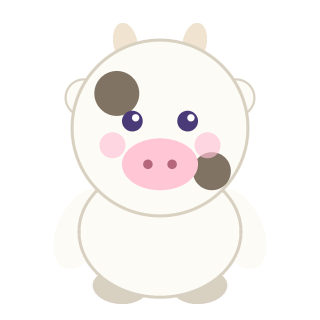
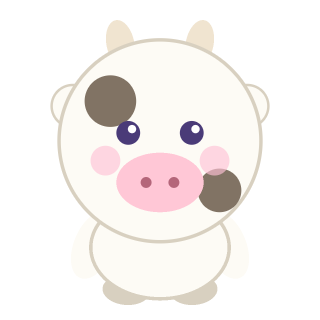
Restore original head proportions, shrink the added bodies
Feedback: the body-added redesign (mascots + 9-animal cast) looked
too deformed now - wanted the original character feel back, just with
a body added rather than an equally-prominent chibi torso.

Increased head size/position back close to the original portrait
proportions (r 0.27->0.31, cy 0.4->0.44 of canvas size) and shrank
drawStandingBody()'s torso/arm/leg multipliers so the body reads as a
small, subordinate addition peeking out below a still-dominant head,
instead of a big rounded chibi body competing with it for attention.
Applied identically to both generators (tools/generate-characters.js
for kuma/neko/usagi, tools/generate-animals.js for the 9-animal cast)
so every character in the app keeps sharing one proportion language.

Regenerated all 12 PNGs. Bumped sw.js CACHE_VERSION to v27.

diff --git a/tools/generate-animals.js b/tools/generate-animals.js
@@ -37,20 +37,21 @@ function drawBlush(cv, cx, cy, r, color = '#FFB0C8') {
   fillCircle(cv, cx + r * 0.55, cy + r * 0.2, r * 0.15, color, 0.65);
 }
 
-// Small standing "chibi" body - same silhouette used for the mascot cast
-// (tools/generate-characters.js) so every character in the app shares one
-// consistent proportion language: big head, compact torso/arms/feet.
+// A small standing body - same silhouette used for the mascot cast
+// (tools/generate-characters.js), kept subordinate to the head rather than
+// an equally-prominent "chibi" torso, per feedback that the earlier bigger
+// body read as too deformed/toy-like against the original character look.
 function drawStandingBody(cv, cx, headCy, headR, bodyColor, outlineColor, footColor) {
-  const neckY = headCy + headR * 0.72;
-  const bodyRx = headR * 0.92;
-  const bodyRy = headR * 0.74;
-  const bodyCy = neckY + bodyRy * 0.65;
+  const neckY = headCy + headR * 0.8;
+  const bodyRx = headR * 0.68;
+  const bodyRy = headR * 0.5;
+  const bodyCy = neckY + bodyRy * 0.55;
 
-  fillEllipse(cv, cx - bodyRx * 0.5, bodyCy + bodyRy * 0.86, headR * 0.32, headR * 0.2, 0.08, footColor);
-  fillEllipse(cv, cx + bodyRx * 0.5, bodyCy + bodyRy * 0.86, headR * 0.32, headR * 0.2, -0.08, footColor);
+  fillEllipse(cv, cx - bodyRx * 0.5, bodyCy + bodyRy * 0.86, headR * 0.24, headR * 0.15, 0.08, footColor);
+  fillEllipse(cv, cx + bodyRx * 0.5, bodyCy + bodyRy * 0.86, headR * 0.24, headR * 0.15, -0.08, footColor);
 
-  fillEllipse(cv, cx - bodyRx * 0.98, bodyCy - bodyRy * 0.05, headR * 0.28, headR * 0.5, 0.45, bodyColor);
-  fillEllipse(cv, cx + bodyRx * 0.98, bodyCy - bodyRy * 0.05, headR * 0.28, headR * 0.5, -0.45, bodyColor);
+  fillEllipse(cv, cx - bodyRx * 0.98, bodyCy - bodyRy * 0.05, headR * 0.2, headR * 0.36, 0.4, bodyColor);
+  fillEllipse(cv, cx + bodyRx * 0.98, bodyCy - bodyRy * 0.05, headR * 0.2, headR * 0.36, -0.4, bodyColor);
 
   fillEllipse(cv, cx, bodyCy, bodyRx + headR * 0.035, bodyRy + headR * 0.035, 0, outlineColor);
   fillEllipse(cv, cx, bodyCy, bodyRx, bodyRy, 0, bodyColor);
@@ -60,7 +61,7 @@ function drawStandingBody(cv, cx, headCy, headR, bodyColor, outlineColor, footCo
 
 function drawDog(size) {
   const cv = makeCanvas(size, size);
-  const cx = size * 0.5, cy = size * 0.4, r = size * 0.27;
+  const cx = size * 0.5, cy = size * 0.44, r = size * 0.31;
   const fur = '#E8B372', outline = '#C9925A', earColor = '#C9925A', snoutColor = '#FBEBD8';
 
   drawStandingBody(cv, cx, cy, r, fur, outline, outline);
@@ -81,7 +82,7 @@ function drawDog(size) {
 
 function drawCat(size) {
   const cv = makeCanvas(size, size);
-  const cx = size * 0.5, cy = size * 0.4, r = size * 0.27;
+  const cx = size * 0.5, cy = size * 0.44, r = size * 0.31;
   const fur = '#FFEFD9', outline = '#E9C9A0', patch = '#F4A94F';
 
   drawStandingBody(cv, cx, cy, r, fur, outline, outline);
@@ -113,7 +114,7 @@ function drawCat(size) {
 
 function drawCow(size) {
   const cv = makeCanvas(size, size);
-  const cx = size * 0.5, cy = size * 0.4, r = size * 0.27;
+  const cx = size * 0.5, cy = size * 0.44, r = size * 0.31;
   const fur = '#FDFBF5', outline = '#D8D0C0', patch = '#6B5B4A', snoutColor = '#FFC7D6', hornColor = '#F0E4D0';
 
   drawStandingBody(cv, cx, cy, r, fur, outline, outline);
@@ -138,7 +139,7 @@ function drawCow(size) {
 
 function drawFrog(size) {
   const cv = makeCanvas(size, size);
-  const cx = size * 0.5, cy = size * 0.42, r = size * 0.27;
+  const cx = size * 0.5, cy = size * 0.46, r = size * 0.31;
   const skin = '#8BC34A', outline = '#5E8F2E', belly = '#DFF3BC';
 
   drawStandingBody(cv, cx, cy, r, skin, outline, outline);
@@ -160,7 +161,7 @@ function drawFrog(size) {
 
 function drawPig(size) {
   const cv = makeCanvas(size, size);
-  const cx = size * 0.5, cy = size * 0.4, r = size * 0.27;
+  const cx = size * 0.5, cy = size * 0.44, r = size * 0.31;
   const fur = '#FFB3C6', outline = '#E8899E', snoutColor = '#FF8FA8';
 
   drawStandingBody(cv, cx, cy, r, fur, outline, outline);
@@ -182,7 +183,7 @@ function drawPig(size) {
 
 function drawChicken(size) {
   const cv = makeCanvas(size, size);
-  const cx = size * 0.5, cy = size * 0.4, r = size * 0.27;
+  const cx = size * 0.5, cy = size * 0.44, r = size * 0.31;
   const feather = '#FFF6E6', outline = '#E8DCC0', comb = '#FF6B5B', beak = '#F4A94F';
 
   drawStandingBody(cv, cx, cy, r, feather, outline, beak);
@@ -199,7 +200,7 @@ function drawChicken(size) {
 
 function drawLion(size) {
   const cv = makeCanvas(size, size);
-  const cx = size * 0.5, cy = size * 0.4, r = size * 0.27;
+  const cx = size * 0.5, cy = size * 0.44, r = size * 0.31;
   const fur = '#F2B84B', outline = '#D89A2E', mane = '#E08A2E', snoutColor = '#FBEBD8';
 
   drawStandingBody(cv, cx, cy, r, fur, outline, outline);
@@ -224,7 +225,7 @@ function drawLion(size) {
 
 function drawElephant(size) {
   const cv = makeCanvas(size, size);
-  const cx = size * 0.5, cy = size * 0.4, r = size * 0.27;
+  const cx = size * 0.5, cy = size * 0.44, r = size * 0.31;
   const fur = '#C3CAD3', outline = '#9AA5B0';
 
   drawStandingBody(cv, cx, cy, r, fur, outline, outline);
@@ -251,7 +252,7 @@ function drawElephant(size) {
 
 function drawSheep(size) {
   const cv = makeCanvas(size, size);
-  const cx = size * 0.5, cy = size * 0.4, r = size * 0.27;
+  const cx = size * 0.5, cy = size * 0.44, r = size * 0.31;
   const wool = '#FDFBF5', woolOutline = '#E4DED0', face = '#8D7B6B', faceOutline = '#6E5E50';
 
   drawStandingBody(cv, cx, cy, r, wool, woolOutline, faceOutline);

diff --git a/tools/generate-characters.js b/tools/generate-characters.js
@@ -22,22 +22,24 @@ function fillCircleOutlined(cv, cx, cy, r, fillColor, outlineColor, outlineWidth
   fillCircle(cv, cx, cy, r, fillColor);
 }
 
-// Small standing "chibi" body (big head, compact torso/arms/legs) drawn
-// beneath the head so every mascot reads consistently as a full character
-// instead of some being face-only portraits and others (like the pet-friends
-// animals) having bodies. Drawn before the head/ears/face so the head
-// naturally overlaps and hides the neck seam.
+// A small standing body drawn beneath the head so every mascot reads as a
+// full character instead of some being face-only portraits and others
+// (like the pet-friends animals) having bodies. Kept subordinate to the
+// head - close to the original head-only proportions - rather than a big
+// "chibi" torso, per feedback that an equally-prominent body read as too
+// deformed/toy-like. Drawn before the head/ears/face so the head naturally
+// overlaps and hides the neck seam.
 function drawStandingBody(cv, cx, headCy, headR, bodyColor, outlineColor, footColor) {
-  const neckY = headCy + headR * 0.72;
-  const bodyRx = headR * 0.92;
-  const bodyRy = headR * 0.74;
-  const bodyCy = neckY + bodyRy * 0.65;
+  const neckY = headCy + headR * 0.8;
+  const bodyRx = headR * 0.68;
+  const bodyRy = headR * 0.5;
+  const bodyCy = neckY + bodyRy * 0.55;
 
-  fillEllipse(cv, cx - bodyRx * 0.5, bodyCy + bodyRy * 0.86, headR * 0.32, headR * 0.2, 0.08, footColor);
-  fillEllipse(cv, cx + bodyRx * 0.5, bodyCy + bodyRy * 0.86, headR * 0.32, headR * 0.2, -0.08, footColor);
+  fillEllipse(cv, cx - bodyRx * 0.5, bodyCy + bodyRy * 0.86, headR * 0.24, headR * 0.15, 0.08, footColor);
+  fillEllipse(cv, cx + bodyRx * 0.5, bodyCy + bodyRy * 0.86, headR * 0.24, headR * 0.15, -0.08, footColor);
 
-  fillEllipse(cv, cx - bodyRx * 0.98, bodyCy - bodyRy * 0.05, headR * 0.28, headR * 0.5, 0.45, bodyColor);
-  fillEllipse(cv, cx + bodyRx * 0.98, bodyCy - bodyRy * 0.05, headR * 0.28, headR * 0.5, -0.45, bodyColor);
+  fillEllipse(cv, cx - bodyRx * 0.98, bodyCy - bodyRy * 0.05, headR * 0.2, headR * 0.36, 0.4, bodyColor);
+  fillEllipse(cv, cx + bodyRx * 0.98, bodyCy - bodyRy * 0.05, headR * 0.2, headR * 0.36, -0.4, bodyColor);
 
   fillEllipse(cv, cx, bodyCy, bodyRx + headR * 0.035, bodyRy + headR * 0.035, 0, outlineColor);
   fillEllipse(cv, cx, bodyCy, bodyRx, bodyRy, 0, bodyColor);
@@ -59,7 +61,7 @@ function drawFace(cv, cx, cy, r, { blush = '#FFB0C8', mouth = '#FF6FA5' } = {}) 
 
 function drawBear(size) {
   const cv = makeCanvas(size, size);
-  const cx = size * 0.5, cy = size * 0.4, r = size * 0.27;
+  const cx = size * 0.5, cy = size * 0.44, r = size * 0.31;
   const fur = '#E3A76F';
   const furDark = '#C98B57';
   const outline = '#B87A45';
@@ -86,7 +88,7 @@ function drawBear(size) {
 
 function drawCat(size) {
   const cv = makeCanvas(size, size);
-  const cx = size * 0.5, cy = size * 0.4, r = size * 0.27;
+  const cx = size * 0.5, cy = size * 0.44, r = size * 0.31;
   const fur = '#FFEFD9';
   const outline = '#E9C9A0';
   const patch = '#F4A94F';
@@ -135,7 +137,7 @@ function drawCat(size) {
 
 function drawRabbit(size) {
   const cv = makeCanvas(size, size);
-  const cx = size * 0.5, cy = size * 0.4, r = size * 0.27;
+  const cx = size * 0.5, cy = size * 0.44, r = size * 0.31;
   const fur = '#FFF8FA';
   const outline = '#F3C9D8';
   const inner = '#FFC2D6';

diff --git a/sw.js b/sw.js
@@ -2,7 +2,7 @@
 // (the whole point: this app is meant to be used out and about).
 // Paths are relative to this file's own location, so it works whether the
 // site is hosted at a domain root or a GitHub Pages project subpath.
-const CACHE_VERSION = 'v26';
+const CACHE_VERSION = 'v27';
 const CACHE_NAME = `asobibako-${CACHE_VERSION}`;
 
 const PRECACHE_URLS = [
